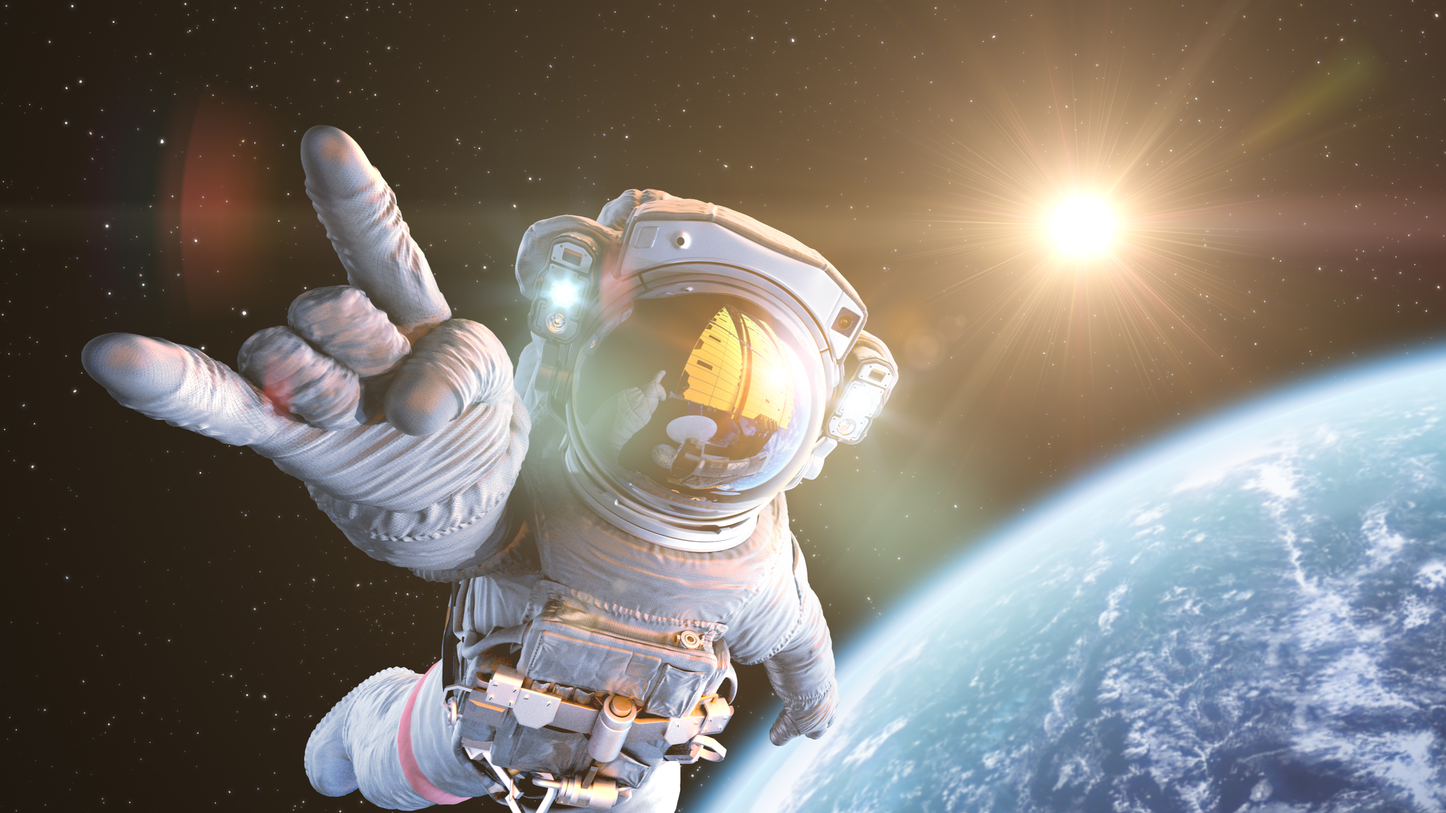
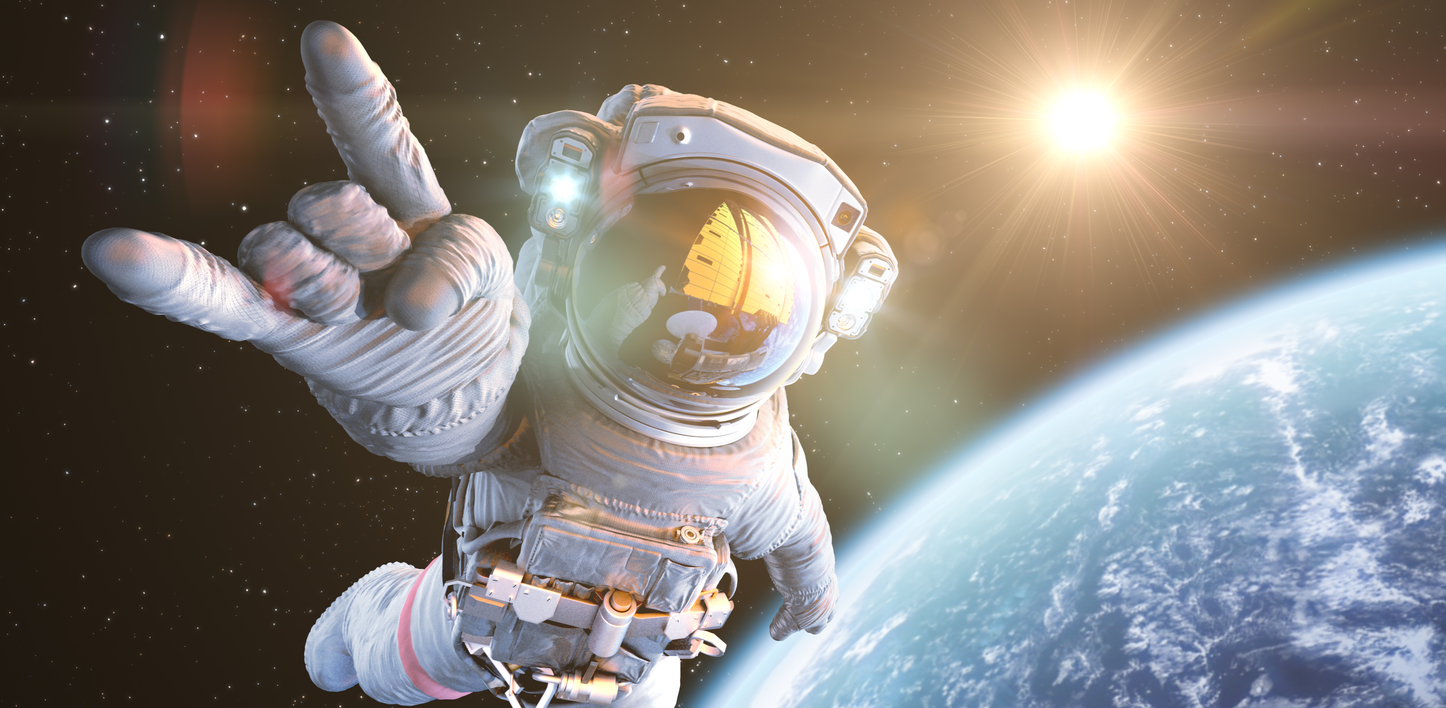
Add detailed ced careers page

diff --git a/app/lib/routes/careers/data.js b/app/lib/routes/careers/data.js
@@ -3,17 +3,124 @@
 const data = {
   android: {
     title: 'Android developer',
+    overview: `
+      Rocket Brains is search of an Android developer to help build dazzling digital work.
+      As a .Android developer, you help to develop some of the finest backends in Internet history. You work as part of different
+      project teams to build a wide variety of environments for an even wider variety of projects. What’s more, you’ll get to work
+      with extremely talented coworkers at the most fun production company around.
+    `,
+    aboutRole: `
+      As Android developer, you’re a major cog in the development of the award-winning sites we produce for the world’s
+      leading creative agencies. We rely on you to develop the backend environments that run like Usain but without the slow
+      start.
+    `,
+    aboutYou: `
+      You are a practiced web developer with at least 5 years of .NET experience.
+      You have hands-on experience in building complex web applications and a solid understanding of how your work
+      integrates with other parts of a build.
+      You have expert-level knowledge of C# and SQL and are experienced working with the ASP.NET MVC framework.
+      Experience in Sitecore is a plus.
+      You are confident in developing for a wide variety of high-load, high-performance environments.
+      Your code is lean, clean and secure and of a quality that will inspire other .NET Developers for many generations to come.
+      Functional knowledge of HTML, CSS and JS comes natural to most .NET Developers and is considered a plus.
+    `,
   },
   copyright: {
     title: ' Copyrighter internshipt',
+    overview: `
+      Rocket Brains is search of an Android developer to help build dazzling digital work.
+      As a .Android developer, you help to develop some of the finest backends in Internet history. You work as part of different
+      project teams to build a wide variety of environments for an even wider variety of projects. What’s more, you’ll get to work
+      with extremely talented coworkers at the most fun production company around.
+    `,
+    aboutRole: `
+      As Android developer, you’re a major cog in the development of the award-winning sites we produce for the world’s
+      leading creative agencies. We rely on you to develop the backend environments that run like Usain but without the slow
+      start.
+    `,
+    aboutYou: `
+      You are a practiced web developer with at least 5 years of .NET experience.
+      You have hands-on experience in building complex web applications and a solid understanding of how your work
+      integrates with other parts of a build.
+      You have expert-level knowledge of C# and SQL and are experienced working with the ASP.NET MVC framework.
+      Experience in Sitecore is a plus.
+      You are confident in developing for a wide variety of high-load, high-performance environments.
+      Your code is lean, clean and secure and of a quality that will inspire other .NET Developers for many generations to come.
+      Functional knowledge of HTML, CSS and JS comes natural to most .NET Developers and is considered a plus.
+    `,
   },
   designer: {
     title: 'Digital designer',
+    overview: `
+      Rocket Brains is search of an Android developer to help build dazzling digital work.
+      As a .Android developer, you help to develop some of the finest backends in Internet history. You work as part of different
+      project teams to build a wide variety of environments for an even wider variety of projects. What’s more, you’ll get to work
+      with extremely talented coworkers at the most fun production company around.
+    `,
+    aboutRole: `
+      As Android developer, you’re a major cog in the development of the award-winning sites we produce for the world’s
+      leading creative agencies. We rely on you to develop the backend environments that run like Usain but without the slow
+      start.
+    `,
+    aboutYou: `
+      You are a practiced web developer with at least 5 years of .NET experience.
+      You have hands-on experience in building complex web applications and a solid understanding of how your work
+      integrates with other parts of a build.
+      You have expert-level knowledge of C# and SQL and are experienced working with the ASP.NET MVC framework.
+      Experience in Sitecore is a plus.
+      You are confident in developing for a wide variety of high-load, high-performance environments.
+      Your code is lean, clean and secure and of a quality that will inspire other .NET Developers for many generations to come.
+      Functional knowledge of HTML, CSS and JS comes natural to most .NET Developers and is considered a plus.
+    `,
   },
   frontend: {
     title: 'Frontend developer',
+    overview: `
+      Rocket Brains is search of an Android developer to help build dazzling digital work.
+      As a .Android developer, you help to develop some of the finest backends in Internet history. You work as part of different
+      project teams to build a wide variety of environments for an even wider variety of projects. What’s more, you’ll get to work
+      with extremely talented coworkers at the most fun production company around.
+    `,
+    aboutRole: `
+      As Android developer, you’re a major cog in the development of the award-winning sites we produce for the world’s
+      leading creative agencies. We rely on you to develop the backend environments that run like Usain but without the slow
+      start.
+    `,
+    aboutYou: `
+      You are a practiced web developer with at least 5 years of .NET experience.
+      You have hands-on experience in building complex web applications and a solid understanding of how your work
+      integrates with other parts of a build.
+      You have expert-level knowledge of C# and SQL and are experienced working with the ASP.NET MVC framework.
+      Experience in Sitecore is a plus.
+      You are confident in developing for a wide variety of high-load, high-performance environments.
+      Your code is lean, clean and secure and of a quality that will inspire other .NET Developers for many generations to come.
+      Functional knowledge of HTML, CSS and JS comes natural to most .NET Developers and is considered a plus.
+    `,
   },
   illustrator: {
     title: 'Illustrator',
+    overview: `
+      Rocket Brains is search of an Android developer to help build dazzling digital work.
+      As a .Android developer, you help to develop some of the finest backends in Internet history. You work as part of different
+      project teams to build a wide variety of environments for an even wider variety of projects. What’s more, you’ll get to work
+      with extremely talented coworkers at the most fun production company around.
+    `,
+    aboutRole: `
+      As Android developer, you’re a major cog in the development of the award-winning sites we produce for the world’s
+      leading creative agencies. We rely on you to develop the backend environments that run like Usain but without the slow
+      start.
+    `,
+    aboutYou: `
+      You are a practiced web developer with at least 5 years of .NET experience.
+      You have hands-on experience in building complex web applications and a solid understanding of how your work
+      integrates with other parts of a build.
+      You have expert-level knowledge of C# and SQL and are experienced working with the ASP.NET MVC framework.
+      Experience in Sitecore is a plus.
+      You are confident in developing for a wide variety of high-load, high-performance environments.
+      Your code is lean, clean and secure and of a quality that will inspire other .NET Developers for many generations to come.
+      Functional knowledge of HTML, CSS and JS comes natural to most .NET Developers and is considered a plus.
+    `,
   },
-}
+};
+
+export default data;

diff --git a/app/lib/routes/careers/detailed.js b/app/lib/routes/careers/detailed.js
@@ -1,10 +1,27 @@
 import React from 'react';
 import Layout from '../../components/layout';
+import Article from '../../components/article';
+import data from './data';
 
-const DetailedJobPosting = ({ match }) => (
-  <Layout className="careers">
-    <p>Detailed page of {match.params.jobID}</p>
-  </Layout>
-);
+const DetailedJobPosting = ({ match }) => {
+  const jobInfo = data[match.params.jobID];
+  const { title, overview, aboutRole, aboutYou } = jobInfo;
+  return (
+    <Layout className="careers">
+      <Article
+        title={title}
+        imageSource='/images/careers.png'
+        style={{paddingBottom: '300px'}}
+      >
+        <p>{overview}</p>
+        <p><strong>About Role</strong></p>
+        <p>{aboutRole}</p>
+        <p><strong>About You</strong></p>
+        <p>{aboutYou}</p>
+        <p></p>
+      </Article>
+    </Layout>
+  );
+}
 
 export default DetailedJobPosting

diff --git a/app/scss/article.scss b/app/scss/article.scss
@@ -831,7 +831,7 @@
 .masthead-item {
   background: $color_rangoon_green_approx;
   position: relative;
-  height: 478px;
+  height: 800px;
   width: 100%;
   border-top: 1px solid $color_mine_shaft_approx;
   overflow: hidden;
@@ -858,11 +858,8 @@
     .img-big {
       margin-left: -960px;
       img {
-        position: absolute;
-        top: 50%;
-        left: 50%;
-        height: 1080px;
-        margin-top: calc(-1080px * 0.2); /* Half the height */
+        width: 1920px;
+        object-fit: cover;
       }
     }
     .img-medium {
